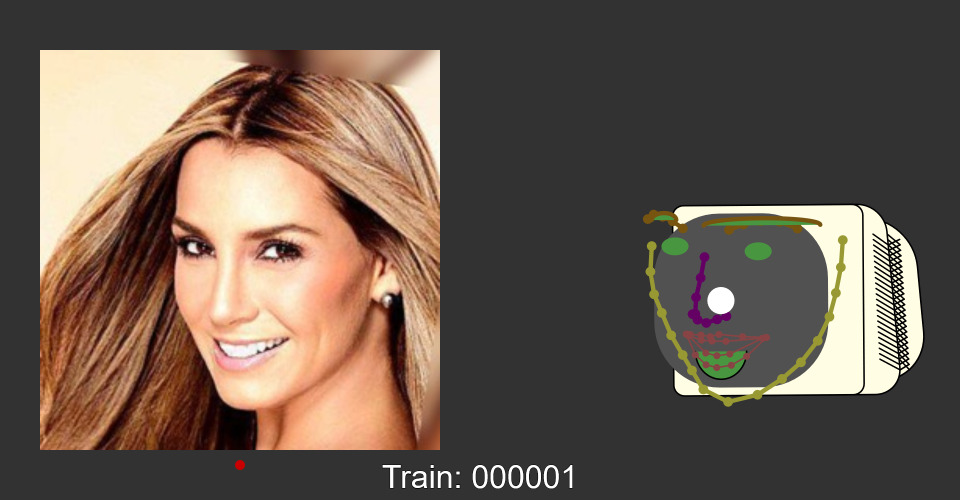
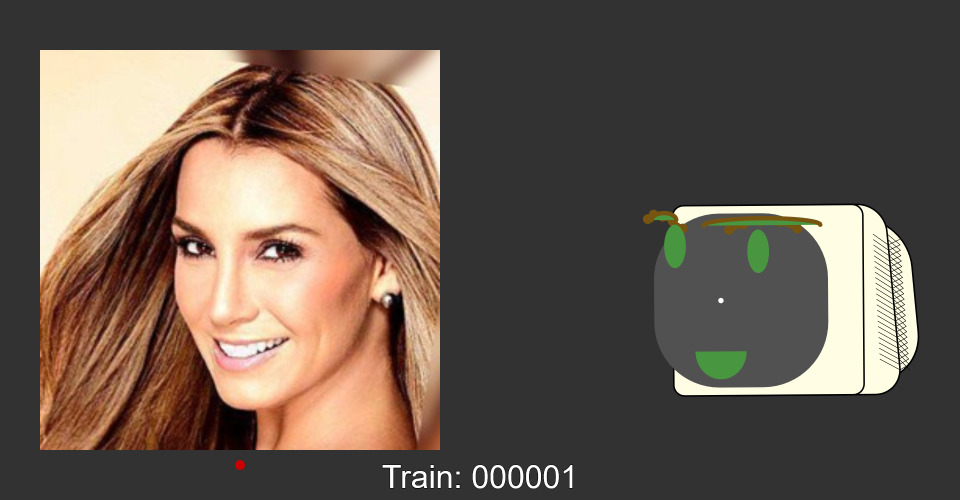
test

diff --git a/face.js b/face.js
@@ -57,9 +57,10 @@ function Face() {
     stroke(stroke_color);
     fill(this.mainColour);
     shearX(5);
-    rect(segment_average(positions.chin)[0]+1.5, 0, 3.6, 3, 0.9);
+    rect(segment_average(positions.chin)[0]+1.4, 0, 3.6, 3, 0.9);
     rect(segment_average(positions.chin)[0]+1, 0, 3.6, 3.5, 0.5);
     push();
+    strokeWeight(0.01);
     for (hatchingY = -1; hatchingY < 1.4; hatchingY += 0.1){
       line(segment_average(positions.chin)[0]+2.8, hatchingY, segment_average(positions.chin)[0]+2.5-hatchingY*0.04, hatchingY-0.2);
       line(segment_average(positions.chin)[0]+2.8, hatchingY, segment_average(positions.chin)[0]+3-hatchingY*0.02, hatchingY-0.1);
@@ -75,10 +76,13 @@ function Face() {
 
 
     // mouth
+    push();
+    noStroke();
     fill(this.detailColour);
     arc(segment_average(positions.bottom_lip)[0], segment_average(positions.bottom_lip)[1], 
     segment_average(positions.bottom_lip)[1]-segment_average(positions.bottom_lip)[0], 1 * this.mouth_size, 
         0,180);
+    pop();
 
     // eyebrows
     fill( this.eyebrowColour);
@@ -95,21 +99,21 @@ function Face() {
         180,360);
 
     // draw the chin segment using points
-    fill(this.chinColour);
-    stroke(this.chinColour);
-    this.draw_segment(positions.chin);
+    // fill(this.chinColour);
+    // stroke(this.chinColour);
+    // this.draw_segment(positions.chin);
 
-    fill(100, 0, 100);
-    stroke(100, 0, 100);
-    this.draw_segment(positions.nose_bridge);
-    this.draw_segment(positions.nose_tip);
+    // fill(100, 0, 100);
+    // stroke(100, 0, 100);
+    // this.draw_segment(positions.nose_bridge);
+    // this.draw_segment(positions.nose_tip);
 
     strokeWeight(0.03);
 
-    fill(this.lipColour);
-    stroke(this.lipColour);
-    this.draw_segment(positions.top_lip);
-    this.draw_segment(positions.bottom_lip);
+    // fill(this.lipColour);
+    // stroke(this.lipColour);
+    // this.draw_segment(positions.top_lip);
+    // this.draw_segment(positions.bottom_lip);
 
     let left_eye_pos = segment_average(positions.left_eye);
     let right_eye_pos = segment_average(positions.right_eye);
@@ -119,8 +123,8 @@ function Face() {
     let curEyeShift = 0.04 * this.eye_shift;
     if(this.num_eyes == 2) {
       fill(this.detailColour);
-      ellipse(left_eye_pos[0], left_eye_pos[1], 0.5, 0.33);
-      ellipse(right_eye_pos[0], right_eye_pos[1], 0.5, 0.33);
+      ellipse(left_eye_pos[0], left_eye_pos[1], 0.4, 0.8);
+      ellipse(right_eye_pos[0], right_eye_pos[1], 0.4, 0.8);
 
       // fill(this.mainColour);
       // ellipse(left_eye_pos[0] + curEyeShift, left_eye_pos[1], 0.18);
@@ -136,8 +140,15 @@ function Face() {
       fill(this.mainColour);
       ellipse(eyePosX - 0.1 + curEyeShift, eyePosY, 0.18);
     }
+
+    // nose
+    // let noseTop = this.draw_segment(positions.nose_bridge);
+    // let noseBottom = this.draw_segment(positions.nose_tip);
+    line(positions.nose_bridge[0][0], positions.nose_bridge[0][1], positions.nose_tip[2][0], positions.nose_tip[2][1]);
+
+    ///////////////////////////////
    fill(255);
-   ellipse(0,0, 0.5,0.5); //center point
+   ellipse(0,0, 0.1,0.1); //center point
   //  rect(-2,-2,4.5,4); //sizing debug 
   }
 
